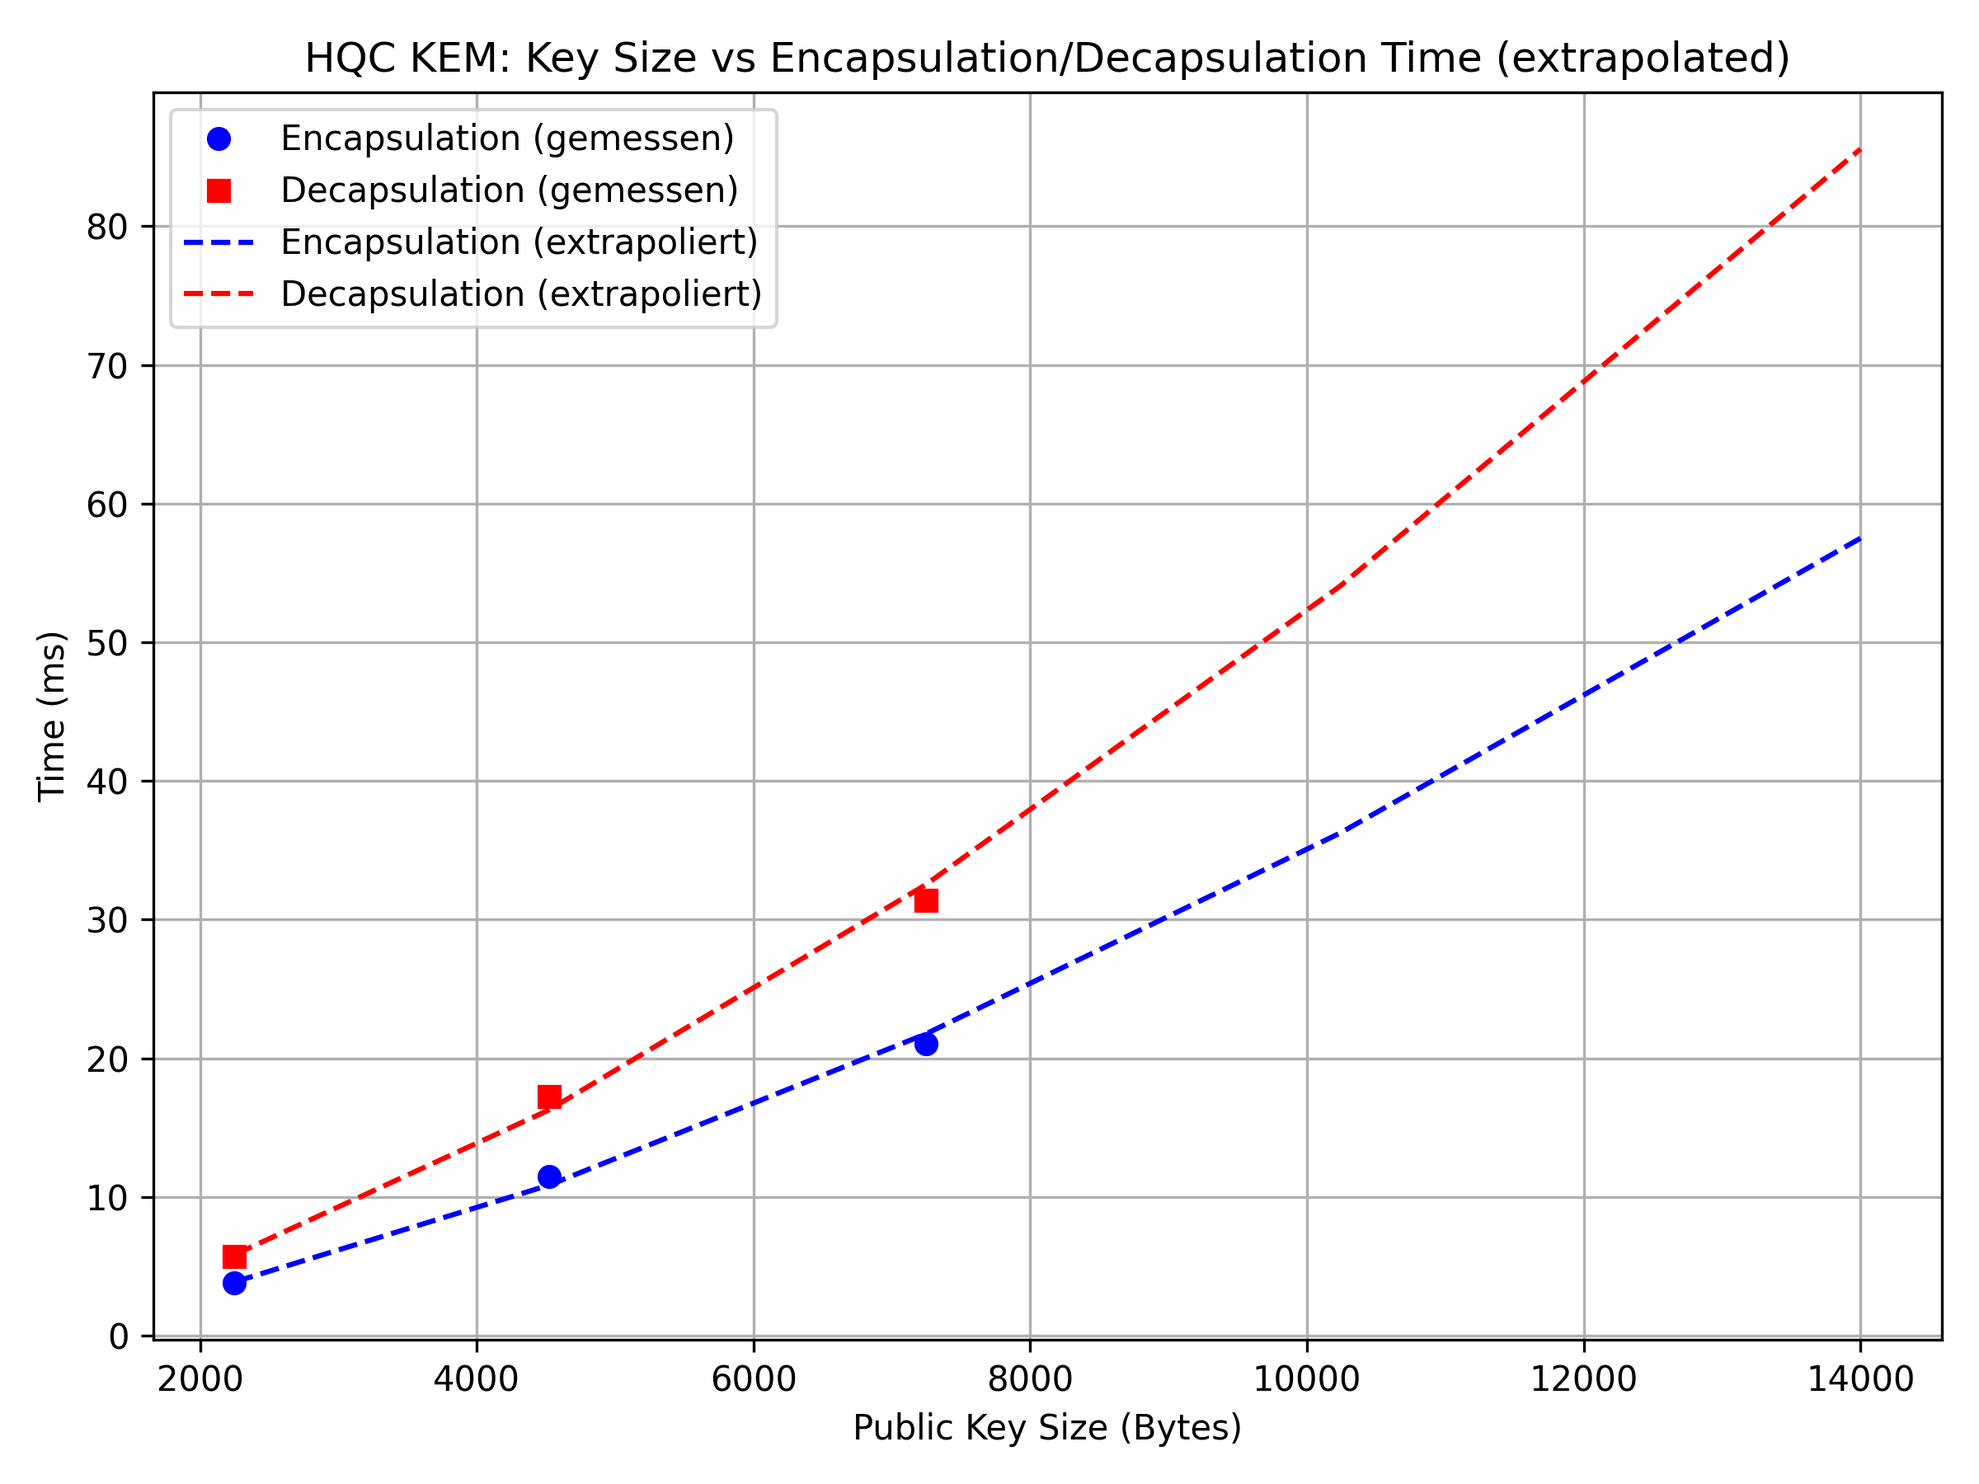
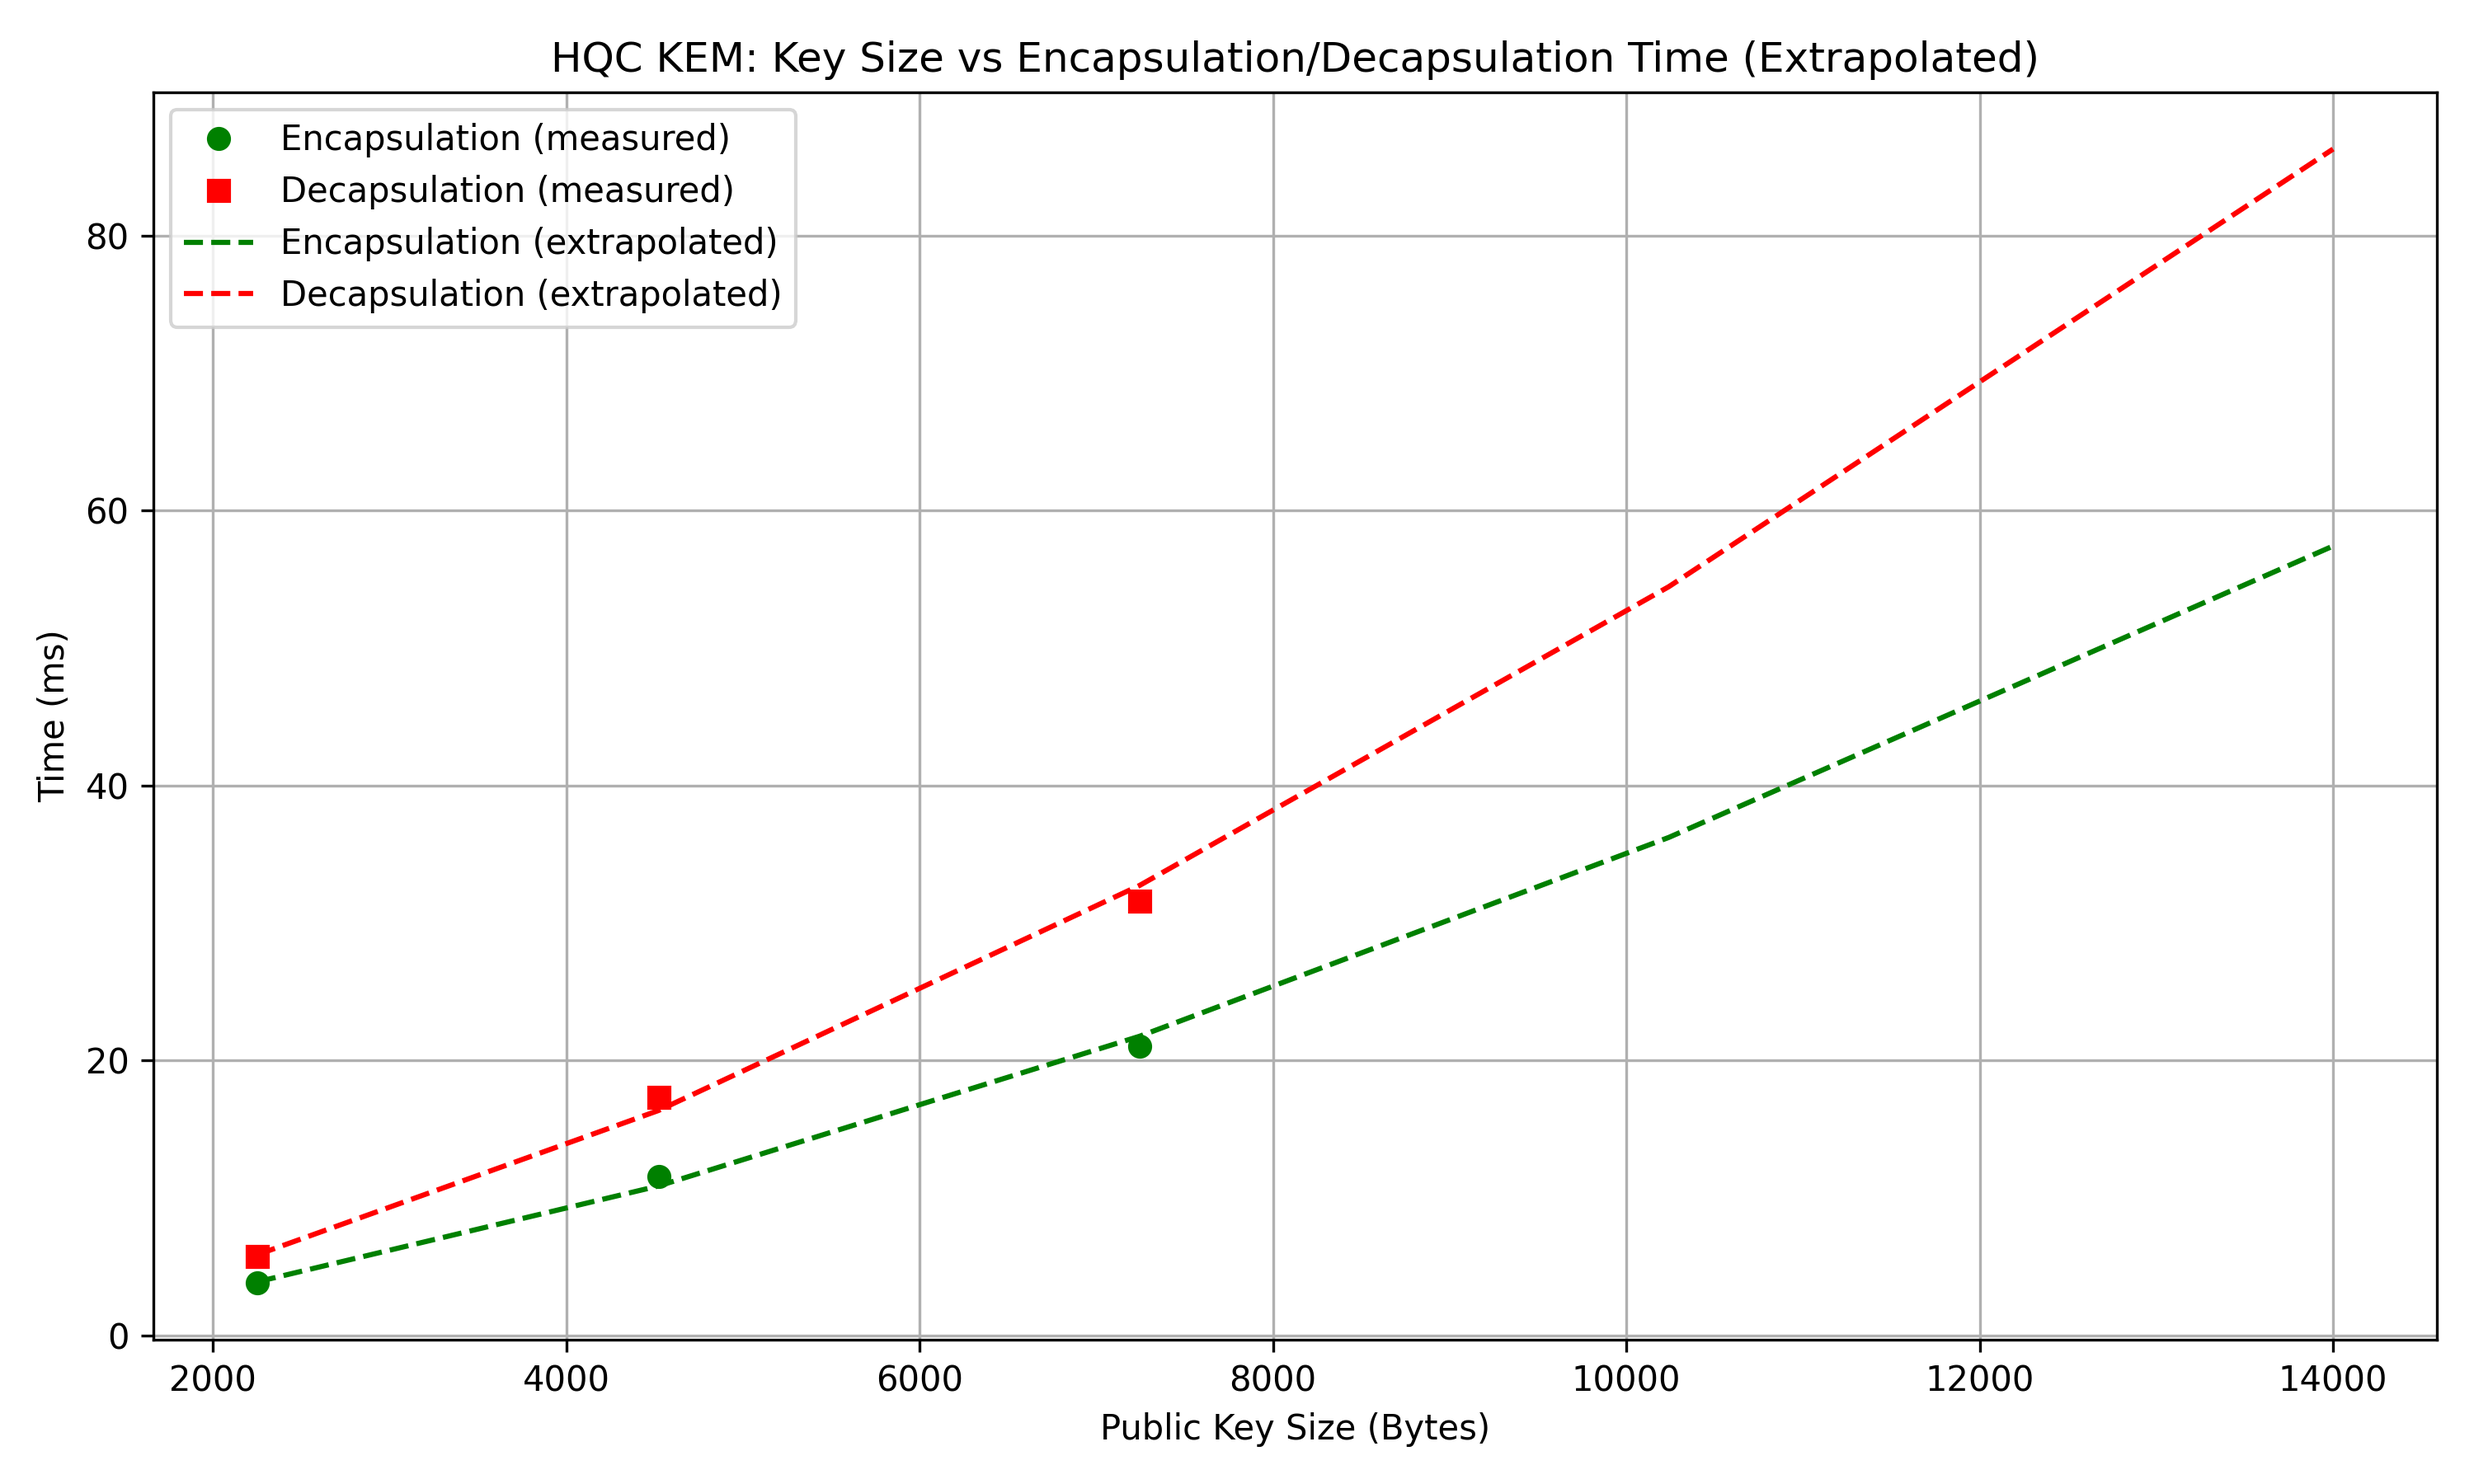
update

diff --git a/benchmark_kem.py b/benchmark_kem.py
@@ -4,32 +4,43 @@ import pandas as pd
 import matplotlib.pyplot as plt
 import os
 
-# importierbare KEMs aus pqcrypto
+# Import HQC KEMs from pqcrypto library
 from pqcrypto.kem.hqc_128 import generate_keypair as hqc128_gen, encrypt as hqc128_enc, decrypt as hqc128_dec
 from pqcrypto.kem.hqc_192 import generate_keypair as hqc192_gen, encrypt as hqc192_enc, decrypt as hqc192_dec
 from pqcrypto.kem.hqc_256 import generate_keypair as hqc256_gen, encrypt as hqc256_enc, decrypt as hqc256_dec
 
-# Profil aus Umgebungsvariable (z.B. Handy, Laptop, Server)
+# Get profile from environment variable (Mobile, Laptop, Server)
 profile = os.environ.get("PROFILE", "default")
+
+# Make directory for results if it doesn't exist
 os.makedirs(profile, exist_ok=True)
 
+# List to store benchmark results
 results = []
 
+# -------------------------------
+# Benchmark function for a single KEM
+# -------------------------------
 def benchmark_kem(name, gen, enc_func, dec_func):
+    # Measure key generation
     t0 = time.perf_counter()
     public_key, secret_key = gen()
     t1 = time.perf_counter()
 
+    # Measure encapsulation
     t2 = time.perf_counter()
     ciphertext, shared_key_enc = enc_func(public_key)
     t3 = time.perf_counter()
 
+    # Measure decapsulation
     t4 = time.perf_counter()
     shared_key_dec = dec_func(secret_key, ciphertext)
     t5 = time.perf_counter()
 
+    # Ensure shared keys match
     assert shared_key_enc == shared_key_dec
 
+    # Save results
     results.append({
         "Algorithm": name,
         "PublicKeyBytes": len(public_key),
@@ -42,61 +53,72 @@ def benchmark_kem(name, gen, enc_func, dec_func):
     })
     print(f"{name} KEM done")
 
+# -------------------------------
+# Main execution
+# -------------------------------
 if __name__ == "__main__":
-    # Benchmarks ausführen
+    # Run benchmarks for each KEM (128, 192, 256) in the current profile
     benchmark_kem("HQC-128", hqc128_gen, hqc128_enc, hqc128_dec)
     benchmark_kem("HQC-192", hqc192_gen, hqc192_enc, hqc192_dec)
     benchmark_kem("HQC-256", hqc256_gen, hqc256_enc, hqc256_dec)
 
-    # CSV speichern
+    # -------------------------------
+    # Save results to CSV
+    # -------------------------------
     df = pd.DataFrame(results)
     csv_path = os.path.join(profile, "pqc_hqc_benchmark.csv")
     df.to_csv(csv_path, index=False)
-    print(f"CSV gespeichert: {csv_path}")
+    print(f"CSV saved: {csv_path}")
 
-    # --- Plot der echten Werte ---
-    plt.figure(figsize=(8, 6))
-    plt.plot(df['PublicKeyBytes'], df['Encaps_ms'], marker='o', linestyle='-', color='blue',
-             label='Encapsulation (gemessen)')
-    plt.plot(df['PublicKeyBytes'], df['Decaps_ms'], marker='s', linestyle='-', color='red',
-             label='Decapsulation (gemessen)')
+    # -------------------------------
+    # Plot measured values (lines + markers)
+    # -------------------------------
+    plt.figure(figsize=(10, 6))
+    plt.plot(df['PublicKeyBytes'], df['Encaps_ms'], 'o-', color='green', label='Encapsulation (measured)')
+    plt.plot(df['PublicKeyBytes'], df['Decaps_ms'], 's-', color='red', label='Decapsulation (measured)')
     plt.xlabel('Public Key Size (Bytes)')
     plt.ylabel('Time (ms)')
-    plt.title('HQC KEM: Key Size vs Encapsulation/Decapsulation Time')
+    plt.title('HQC KEM: Key Size vs Encapsulation/Decapsulation Time (Measured)')
     plt.grid(True)
     plt.legend()
     plt.tight_layout()
-    plt.savefig(os.path.join(profile, "hqc_keysize_vs_time.png"), dpi=300)
+    measured_plot = os.path.join(profile, "hqc_keysize_vs_time_measured.png")
+    plt.savefig(measured_plot, dpi=300)
     plt.show()
-    print(f"Plot gespeichert: {os.path.join(profile, 'hqc_keysize_vs_time.png')}")
+    print(f"Measured plot saved: {measured_plot}")
 
-    # --- Extrapolation für höhere Sicherheitslevel ---
+    # -------------------------------
+    # Extrapolation for larger keys
+    # -------------------------------
     real_keys = np.array(df['PublicKeyBytes'])
     enc_times = np.array(df['Encaps_ms'])
     dec_times = np.array(df['Decaps_ms'])
 
-    # Fit Potenzfunktion: t ~ key^b
+    # Fit power-law: t ~ key_size^b
     a_enc, b_enc = np.polyfit(np.log(real_keys), np.log(enc_times), 1)
     a_dec, b_dec = np.polyfit(np.log(real_keys), np.log(dec_times), 1)
 
-    # Neue hypothetische Keys für Zukunftsszenarien
+    # Hypothetical future keys (larger sizes)
     keys_sim = np.array([2249, 4522, 7245, 10240, 14000])
     enc_sim = np.exp(a_enc * np.log(keys_sim) + b_enc)
     dec_sim = np.exp(a_dec * np.log(keys_sim) + b_dec)
 
-    # --- Plot extrapolierte Werte ---
-    plt.figure(figsize=(8, 6))
-    plt.plot(real_keys, enc_times, 'o', color='blue', label='Encapsulation (gemessen)')
-    plt.plot(real_keys, dec_times, 's', color='red', label='Decapsulation (gemessen)')
-    plt.plot(keys_sim, enc_sim, '--', color='blue', label='Encapsulation (extrapoliert)')
-    plt.plot(keys_sim, dec_sim, '--', color='red', label='Decapsulation (extrapoliert)')
+    # -------------------------------
+    # Plot extrapolated values (lines + markers)
+    # -------------------------------
+    plt.figure(figsize=(10, 6))
+    plt.plot(real_keys, enc_times, 'o', color='green', label='Encapsulation (measured)')
+    plt.plot(real_keys, dec_times, 's', color='red', label='Decapsulation (measured)')
+    plt.plot(keys_sim, enc_sim, '--', color='green', label='Encapsulation (extrapolated)')
+    plt.plot(keys_sim, dec_sim, '--', color='red', label='Decapsulation (extrapolated)')
     plt.xlabel('Public Key Size (Bytes)')
     plt.ylabel('Time (ms)')
-    plt.title('HQC KEM: Key Size vs Encapsulation/Decapsulation Time (extrapolated)')
+    plt.title('HQC KEM: Key Size vs Encapsulation/Decapsulation Time (Extrapolated)')
     plt.grid(True)
     plt.legend()
     plt.tight_layout()
-    plt.savefig(os.path.join(profile, "hqc_keysize_vs_time_extrapolated.png"), dpi=300)
+    extrapolated_plot = os.path.join(profile, "hqc_keysize_vs_time_extrapolated.png")
+    plt.savefig(extrapolated_plot, dpi=300)
     plt.show()
-    print(f"Extrapolierter Plot gespeichert: {os.path.join(profile, 'hqc_keysize_vs_time_extrapolated.png')}")
+    print(f"Extrapolated plot saved: {extrapolated_plot}")
 

diff --git a/plot_combined_benchmarks.py b/plot_combined_benchmarks.py
@@ -1,0 +1,176 @@
+import os
+import pandas as pd
+import numpy as np
+import matplotlib.pyplot as plt
+
+profiles = ["Mobile", "Laptop", "Server"]
+marker_map = {"Mobile": "o", "Laptop": "^", "Server": "s"}  # Marker per profile
+linestyles = {"Mobile": "-", "Laptop": "--", "Server": "-."}  # Line styles for extrapolated
+
+color_enc = "green"
+color_dec = "red"
+
+# -------------------------------
+# 1. Measured values (lines + markers, all profiles combined)
+# -------------------------------
+plt.figure(figsize=(10, 6))
+
+for profile in profiles:
+    csv_path = os.path.join(profile, "pqc_hqc_benchmark.csv")
+    if not os.path.exists(csv_path):
+        print(f"CSV for {profile} not found, skipping...")
+        continue
+
+    df = pd.read_csv(csv_path)
+    keys = np.array(df['PublicKeyBytes'])
+    enc_times = np.array(df['Encaps_ms'])
+    dec_times = np.array(df['Decaps_ms'])
+
+    plt.plot(keys, enc_times,
+             marker=marker_map[profile],
+             linestyle='-',
+             color=color_enc,
+             label=f'{profile} Encapsulation')
+
+    plt.plot(keys, dec_times,
+             marker=marker_map[profile],
+             linestyle='-',
+             color=color_dec,
+             label=f'{profile} Decapsulation')
+
+plt.xlabel('Public Key Size (Bytes)')
+plt.ylabel('Time (ms)')
+plt.title('HQC KEM: All Profiles (Measured Values)')
+plt.grid(True)
+plt.legend()
+plt.tight_layout()
+plt.savefig("combined_hqc_measured.png", dpi=300)
+plt.show()
+print("Measured values plot saved: combined_hqc_measured.png")
+
+# -------------------------------
+# 2. Extrapolated values (lines + markers, all profiles combined)
+# -------------------------------
+plt.figure(figsize=(10, 6))
+
+for profile in profiles:
+    csv_path = os.path.join(profile, "pqc_hqc_benchmark.csv")
+    if not os.path.exists(csv_path):
+        continue
+
+    df = pd.read_csv(csv_path)
+    keys_real = np.array(df['PublicKeyBytes'])
+    enc_times = np.array(df['Encaps_ms'])
+    dec_times = np.array(df['Decaps_ms'])
+
+    a_enc, b_enc = np.polyfit(np.log(keys_real), np.log(enc_times), 1)
+    a_dec, b_dec = np.polyfit(np.log(keys_real), np.log(dec_times), 1)
+
+    keys_sim = np.array([2249, 4522, 7245, 10240, 14000])
+    enc_sim = np.exp(a_enc * np.log(keys_sim) + b_enc)
+    dec_sim = np.exp(a_dec * np.log(keys_sim) + b_dec)
+
+    plt.plot(keys_sim, enc_sim,
+             linestyle=linestyles[profile],
+             color=color_enc,
+             marker=marker_map[profile],
+             label=f'{profile} Encapsulation')
+
+    plt.plot(keys_sim, dec_sim,
+             linestyle=linestyles[profile],
+             color=color_dec,
+             marker=marker_map[profile],
+             label=f'{profile} Decapsulation')
+
+plt.xlabel('Public Key Size (Bytes)')
+plt.ylabel('Time (ms)')
+plt.title('HQC KEM: All Profiles (Extrapolated Values)')
+plt.grid(True)
+plt.legend()
+plt.tight_layout()
+plt.savefig("combined_hqc_extrapolated.png", dpi=300)
+plt.show()
+print("Extrapolated values plot saved: combined_hqc_extrapolated.png")
+
+# -------------------------------
+# 3. Measured values per profile (subplots under each other)
+# -------------------------------
+fig, axes = plt.subplots(len(profiles), 1, figsize=(10, 6*len(profiles)), sharex=True, sharey=True)
+
+for i, profile in enumerate(profiles):
+    csv_path = os.path.join(profile, "pqc_hqc_benchmark.csv")
+    if not os.path.exists(csv_path):
+        print(f"CSV for {profile} not found, skipping...")
+        continue
+
+    df = pd.read_csv(csv_path)
+    keys = np.array(df['PublicKeyBytes'])
+    enc_times = np.array(df['Encaps_ms'])
+    dec_times = np.array(df['Decaps_ms'])
+
+    ax = axes[i]
+    ax.plot(keys, enc_times,
+            marker=marker_map[profile],
+            linestyle='-',
+            color=color_enc,
+            label='Encapsulation')
+    ax.plot(keys, dec_times,
+            marker=marker_map[profile],
+            linestyle='-',
+            color=color_dec,
+            label='Decapsulation')
+    ax.set_title(f'{profile} (Measured Values)')
+    ax.set_ylabel('Time (ms)')
+    ax.grid(True)
+    ax.legend()
+
+axes[-1].set_xlabel('Public Key Size (Bytes)')
+plt.tight_layout()
+plt.savefig("measured_per_profile.png", dpi=300)
+plt.show()
+print("Measured values per profile plot saved: measured_per_profile.png")
+
+# -------------------------------
+# 4. Extrapolated values per profile (subplots under each other)
+# -------------------------------
+fig, axes = plt.subplots(len(profiles), 1, figsize=(10, 6*len(profiles)), sharex=True, sharey=True)
+
+for i, profile in enumerate(profiles):
+    csv_path = os.path.join(profile, "pqc_hqc_benchmark.csv")
+    if not os.path.exists(csv_path):
+        continue
+
+    df = pd.read_csv(csv_path)
+    keys_real = np.array(df['PublicKeyBytes'])
+    enc_times = np.array(df['Encaps_ms'])
+    dec_times = np.array(df['Decaps_ms'])
+
+    a_enc, b_enc = np.polyfit(np.log(keys_real), np.log(enc_times), 1)
+    a_dec, b_dec = np.polyfit(np.log(keys_real), np.log(dec_times), 1)
+
+    keys_sim = np.array([2249, 4522, 7245, 10240, 14000])
+    enc_sim = np.exp(a_enc * np.log(keys_sim) + b_enc)
+    dec_sim = np.exp(a_dec * np.log(keys_sim) + b_dec)
+
+    ax = axes[i]
+    ax.plot(keys_sim, enc_sim,
+            linestyle=linestyles[profile],
+            marker=marker_map[profile],
+            color=color_enc,
+            label='Encapsulation')
+    ax.plot(keys_sim, dec_sim,
+            linestyle=linestyles[profile],
+            marker=marker_map[profile],
+            color=color_dec,
+            label='Decapsulation')
+    ax.set_title(f'{profile} (Extrapolated Values)')
+    ax.set_ylabel('Time (ms)')
+    ax.grid(True)
+    ax.legend()
+
+axes[-1].set_xlabel('Public Key Size (Bytes)')
+plt.tight_layout()
+plt.savefig("extrapolated_per_profile.png", dpi=300)
+plt.show()
+print("Extrapolated values per profile plot saved: extrapolated_per_profile.png")
+

diff --git a/README.md b/README.md
@@ -8,8 +8,9 @@ This repository provides a Docker-based setup for benchmarking Post-Quantum Cryp
 
 This benchmark was tested on a **Linux Ubuntu 24 VM** with:
 
-- 2 CPUs  
-- 2 GB RAM  
+- 8 CPUs  
+- 16 GB RAM
+- 100 GB Disk
 
 Your results may vary depending on available resources.
 
@@ -72,8 +73,8 @@ There are three pre-configured profiles:
 | Profile | CPUs | RAM    | Description            |
 | ------- | ---- | ------ | ---------------------- |
 | Mobile  | 0.5  | 256 MB | Simulates a smartphone |
-| Laptop  | 1    | 2 GB   | Simulates a laptop     |
-| Server  | 4    | 8 GB   | Simulates a server     |
+| Laptop  | 2    | 4 GB   | Simulates a laptop     |
+| Server  | 8    | 16 GB  | Simulates a server     |
 
 ### Examples:
 
@@ -82,10 +83,10 @@ There are three pre-configured profiles:
 sudo docker run --rm -v $(pwd):/app -e PROFILE=Mobile --cpus=0.5 --memory=256m pqc-benchmark:latest
 
 # Laptop
-sudo docker run --rm -v $(pwd):/app -e PROFILE=Laptop --cpus=1 --memory=2048m pqc-benchmark:latest
+sudo docker run --rm -v $(pwd):/app -e PROFILE=Laptop --cpus=2 --memory=4096m pqc-benchmark:latest
 
 # Server
-sudo docker run --rm -v $(pwd):/app -e PROFILE=Server --cpus=4 --memory=8192m pqc-benchmark:latest
+sudo docker run --rm -v $(pwd):/app -e PROFILE=Server --cpus=8 --memory=16384m pqc-benchmark:latest
 
 ```
 The -v $(pwd):/app option mounts the current project directory into the container so that results are saved directly on the host.
@@ -116,5 +117,6 @@ Each folder contains the benchmark data for the corresponding profile.
 ## License
 
 Include your license here (e.g., MIT, Apache 2.0, etc.)
+
 
 
